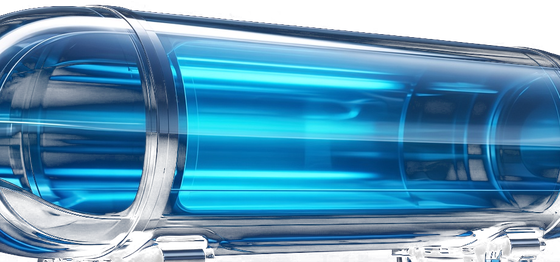
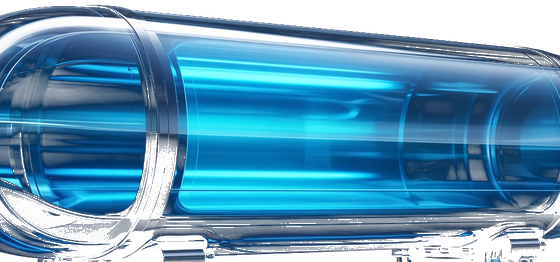
fix(ui): knock out pod photo boxes so glass sits on the rails
Black studio backgrounds were compositing as rectangles because the
scene used isolation. Screen-blend against the page and tighter alpha.

diff --git a/frontend/src/styles/aurelo-tokens.css b/frontend/src/styles/aurelo-tokens.css
@@ -95,7 +95,6 @@
   position: relative;
   height: 100%;
   min-width: 860px;
-  isolation: isolate;
 }
 
 .pod-floor {
@@ -158,9 +157,9 @@
   display: block;
   width: 100%;
   height: auto;
+  background: transparent;
   mix-blend-mode: screen;
-  mix-blend-mode: screen;
-  filter: drop-shadow(0 10px 18px rgba(0, 0, 0, 0.45));
+  filter: drop-shadow(0 0 16px rgba(80, 200, 255, 0.25));
 }
 
 .pod-done img { filter: drop-shadow(0 0 18px rgba(61, 255, 192, 0.45)); }

diff --git a/frontend/src/components/TrainScene.tsx b/frontend/src/components/TrainScene.tsx
@@ -30,7 +30,7 @@ export default function TrainScene({ activeStageIndex }: { activeStageIndex: num
           const status = statusFor(i, active);
           return (
             <figure key={label} className={`pod pod-${status}`}>
-              <img src={POD[status]} alt="" />
+              <img src={POD[status]} alt="" draggable={false} />
               <figcaption>{label}</figcaption>
             </figure>
           );
